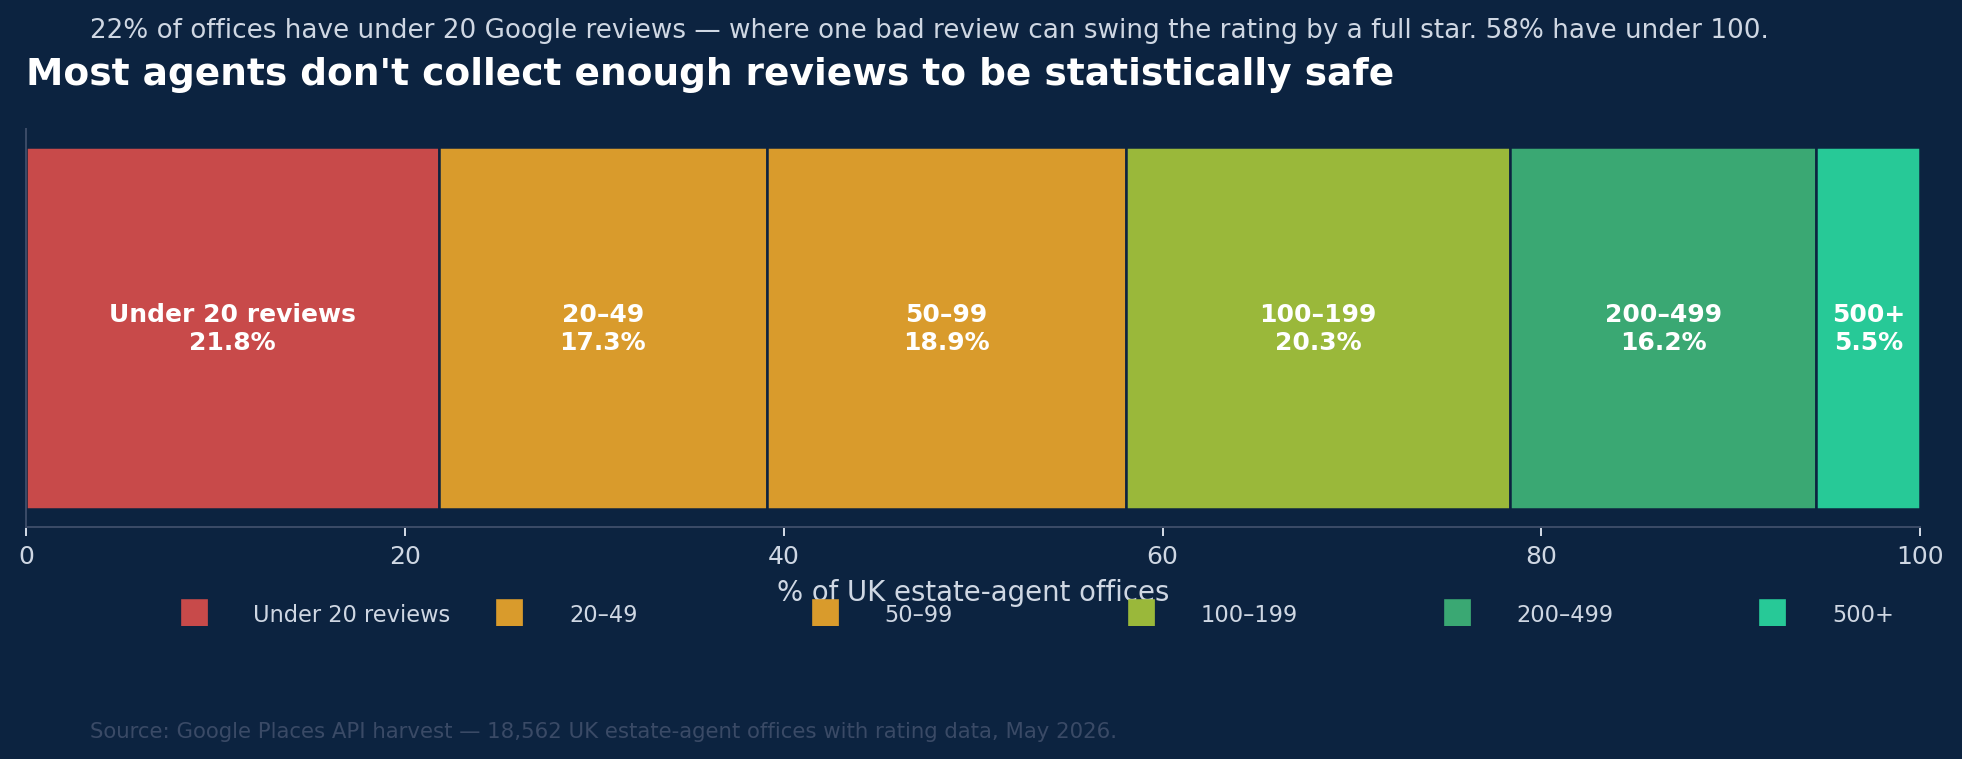
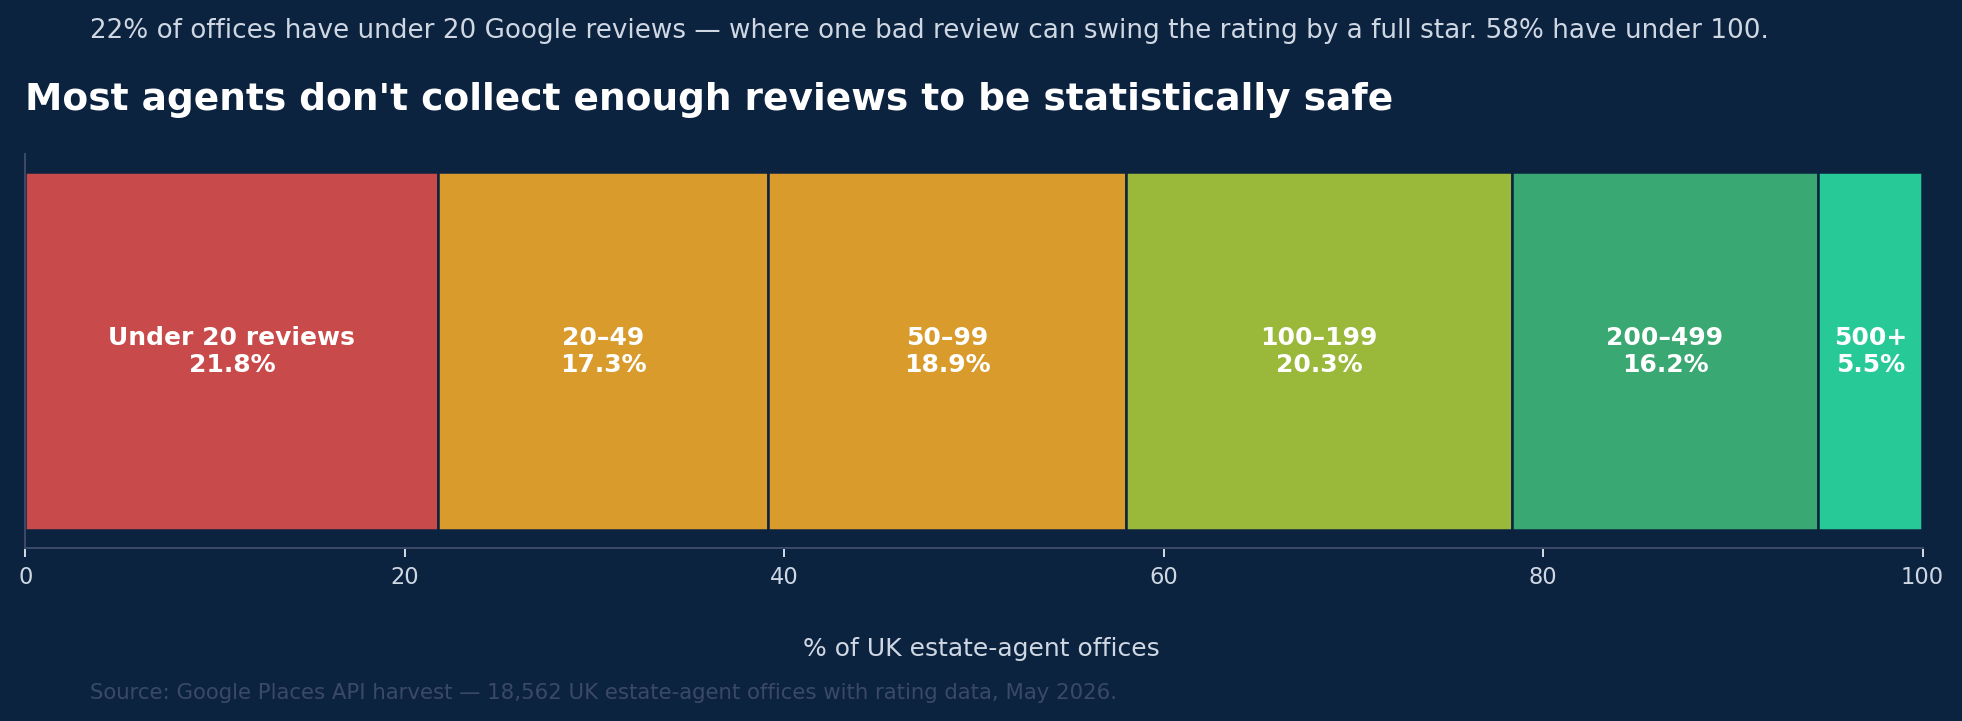
Fix volume-gap chart layout collision; correct '7 years' claim to ONS-backed 17yr / 10yr average

diff --git a/reputation-state-of-the-nation/index.html b/reputation-state-of-the-nation/index.html
@@ -766,7 +766,7 @@
 
       <p style="margin-top:24px; color:#3b4257; font-size:16px; max-width:780px;">A caveat worth being honest about: estate agents handle far fewer transactions per year than restaurants or supermarkets, so the review volume isn't directly comparable. An office that lists 100 properties a year will never compete on review count with a restaurant serving 100 covers a day. The right way to read this chart isn't "agents collect more reviews than other industries" — they don't. It's "when an agent is judged, the verdict is stronger than nearly anyone else."</p>
 
-      <p style="margin-top:18px; color:#3b4257; font-size:16px; max-width:780px;">The follow-on question is the obvious one: if 85% of UK agents already rate 4★+, why does the industry's reputation in the wider public still lag the data? Two reasons. First, transaction-grade customer experiences are inherently rare — you list a property once every seven years on average — so personal experience builds slowly. Second, the loudest voices on social media and in tabloid coverage skew negative, while the satisfied majority quietly close their deal and move on. The Google reviews show what actually happened. The narrative shows what people remember.</p>
+      <p style="margin-top:18px; color:#3b4257; font-size:16px; max-width:780px;">The follow-on question is the obvious one: if 85% of UK agents already rate 4★+, why does the industry's reputation in the wider public still lag the data? Two reasons. First, transaction-grade customer experiences are inherently rare — UK owner-occupiers stay in their current home for an average of 17 years (<a href='https://www.gov.uk/government/statistics/chapters-for-english-housing-survey-2023-to-2024-headline-findings-on-demographics-and-household-resilience/chapter-3-housing-history-and-future-housing' style='color:var(--gold-deep);'>English Housing Survey 2023-24</a>), and even mortgaged owners only move every 10 years or so — so personal experience of estate agents builds slowly. Second, the loudest voices on social media and in tabloid coverage skew negative, while the satisfied majority quietly close their deal and move on. The Google reviews show what actually happened. The narrative shows what people remember.</p>
     </div>
   </section>
 
